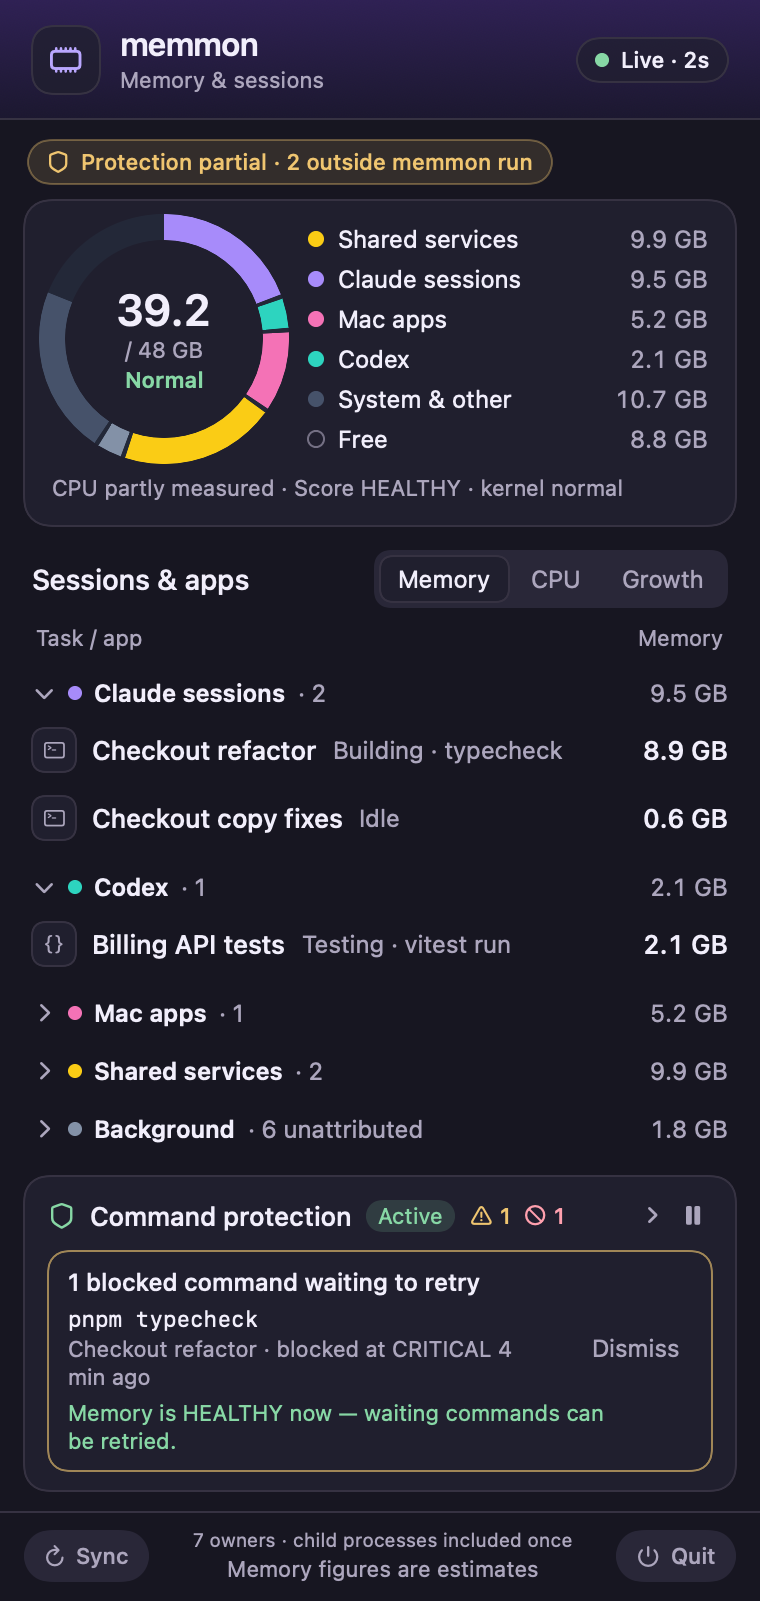
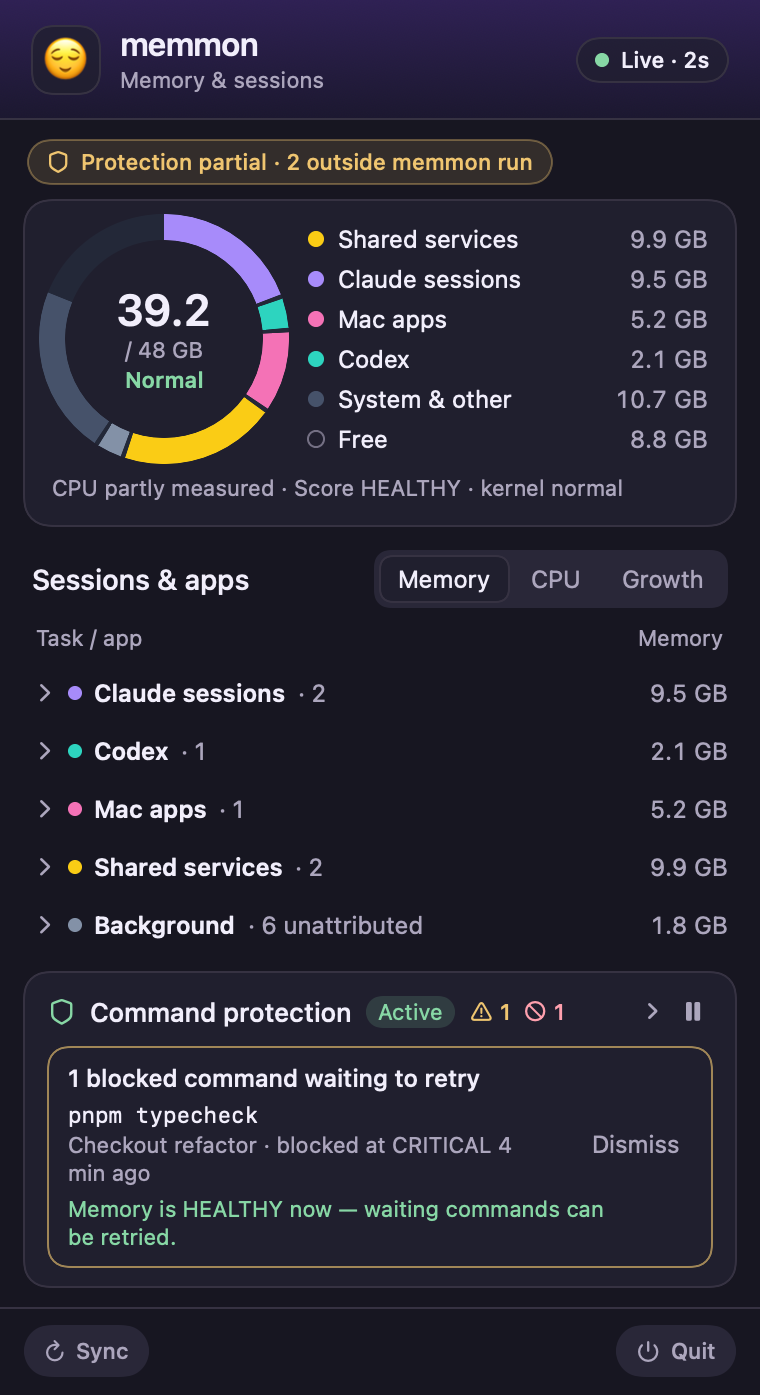
feat(menubar): a mood face in the header, collapsed sections, no footer note
The header tile shows how the machine feels: calm, watchful, strained,
overheating, unsure or asleep, from the sample's level and age, with a
gentle animation that stops under Reduce Motion. Every section now
starts collapsed, and the footer's owner-count note is gone; what it
tried to say is now the ring's tooltip.

diff --git a/MemmonBar.swift b/MemmonBar.swift
@@ -608,7 +608,9 @@ enum OwnerSection: String, CaseIterable, Identifiable {
     }
 
     /// Open until the user closes it: the sections that hold agent work.
-    var openByDefault: Bool { self == .claude || self == .codex }
+    /// Every section starts collapsed: the headers are the overview, and a
+    /// section opens on a click or for the row the user is acting on.
+    var openByDefault: Bool { false }
 
     /// At most this many rows show before "Show N more".
     static let cap = 6
@@ -2978,6 +2980,78 @@ struct ChromeHeightKey: PreferenceKey {
 func ringSweeps(reduceMotion: Bool, animate: Bool) -> Bool { animate && !reduceMotion }
 func dotPulses(reduceMotion: Bool) -> Bool { !reduceMotion }
 
+/// The header's face: how the machine feels, from the sample on screen. A
+/// stale or missing sample never looks calm.
+enum Mood: String {
+    case calm, watch, strained, critical, unsure, asleep
+
+    static func of(_ s: OwnersSnap?) -> Mood {
+        guard let s, s.age != nil else { return .unsure }
+        if s.stale { return .asleep }
+        switch s.system.scoreLevel?.uppercased() {
+        case "HEALTHY": return .calm
+        case "WATCH": return .watch
+        case "DANGER": return .strained
+        case "CRITICAL": return .critical
+        default: return .unsure
+        }
+    }
+
+    var face: String {
+        switch self {
+        case .calm: return "😌"
+        case .watch: return "😐"
+        case .strained: return "😰"
+        case .critical: return "🥵"
+        case .unsure: return "🤔"
+        case .asleep: return "😴"
+        }
+    }
+
+    var spoken: String {
+        switch self {
+        case .calm: return "calm, memory pressure is normal"
+        case .watch: return "watchful, memory pressure is rising"
+        case .strained: return "strained, memory pressure is high"
+        case .critical: return "overheating, memory pressure is critical"
+        case .unsure: return "unsure, memory pressure is unknown"
+        case .asleep: return "asleep, the sample is stale"
+        }
+    }
+
+    /// Breathing for calm, a faster breath when watchful, a wobble when
+    /// strained and a shake when critical.
+    var motion: (scale: CGFloat, angle: Double, period: Double) {
+        switch self {
+        case .calm: return (1.06, 0, 2.4)
+        case .watch: return (1.08, 0, 1.3)
+        case .strained: return (1.0, 6, 0.35)
+        case .critical: return (1.1, 10, 0.16)
+        case .unsure: return (1.0, 8, 1.6)
+        case .asleep: return (0.95, 0, 3.0)
+        }
+    }
+}
+
+struct MoodFace: View {
+    var mood: Mood
+    @Environment(\.accessibilityReduceMotion) private var reduceMotion
+    @State private var phase = false
+
+    var body: some View {
+        let m = mood.motion
+        Text(mood.face)
+            .font(.system(size: 19))
+            .scaleEffect(phase ? m.scale : 1)
+            .rotationEffect(.degrees(phase ? m.angle : (m.angle == 0 ? 0 : -m.angle)))
+            .onAppear {
+                // Renders and Reduce Motion get the still face.
+                guard dotPulses(reduceMotion: reduceMotion) else { return }
+                withAnimation(.easeInOut(duration: m.period).repeatForever(autoreverses: true)) { phase = true }
+            }
+    }
+}
+
 /// What the header's status pill says about the sample on screen.
 struct StatusState: Equatable {
     enum Kind: String { case live, syncing, sampling, stale }
@@ -3239,12 +3313,15 @@ struct ContentView: View {
 
     private var header: some View {
         HStack(spacing: 10) {
-            Image(systemName: "memorychip")
-                .font(.system(size: 15, weight: .medium)).foregroundColor(P.accent)
+            let mood = Mood.of(model.snap)
+            MoodFace(mood: mood)
+                .id(mood)
                 .frame(width: 34, height: 34)
                 .background(RoundedRectangle(cornerRadius: 10).fill(P.panel.opacity(0.75)))
                 .overlay(RoundedRectangle(cornerRadius: 10).stroke(P.border, lineWidth: 1))
-                .accessibilityHidden(true)
+                .help(mood.spoken)
+                .accessibilityElement(children: .ignore)
+                .accessibilityLabel("memmon mood: \(mood.spoken)")
             VStack(alignment: .leading, spacing: 1) {
                 Text("memmon").font(ft(16, .semibold)).tracking(-0.3).foregroundColor(P.text)
                 Text("Memory & sessions").font(ft(11)).foregroundColor(P.muted)
@@ -3337,6 +3414,7 @@ struct ContentView: View {
             HStack(alignment: .center, spacing: 16) {
                 ZStack {
                     MemoryRing(segments: segments, used: used, ram: ram, animate: !flattened)
+                        .help("Memory in use. Each section adds up its processes' footprints, compressed pages included; every process counts once, under its owner.")
                     VStack(spacing: 0) {
                         Text(used.map { String(format: "%.1f", $0 / GB) } ?? "—")
                             .font(.system(size: 22, weight: .semibold)).foregroundColor(P.text)
@@ -3833,19 +3911,9 @@ struct ContentView: View {
     }
 
     private var footer: some View {
-        let count = model.snap?.rows.count
-        return HStack(spacing: 8) {
+        HStack(spacing: 8) {
             FooterButton(icon: "arrow.clockwise", label: "Sync") { model.refresh() }
             Spacer(minLength: 4)
-            VStack(spacing: 1) {
-                if let count {
-                    Text("\(plural(count, "owner")) · child processes included once")
-                }
-                Text("Memory figures are estimates")
-            }
-            .font(ft(11)).foregroundColor(P.muted)
-            .multilineTextAlignment(.center)
-            .lineLimit(1).minimumScaleFactor(0.85)
             Spacer(minLength: 4)
             FooterButton(icon: "power", label: "Quit", action: onQuit)
         }
@@ -4003,7 +4071,9 @@ func renderOptions(_ view: [String: Any], fixtureDir: String) -> RenderOptions {
     o.openGate = ARGS.contains("--open-gate") || (view["open_gate"] as? Bool ?? false)
     o.dark = ARGS.contains("--dark")
     o.popoverClosed = view["popover_closed"] as? Bool ?? false
-    o.sections = view["sections"] as? [String] ?? []
+    // `--sections a,b` opens sections on top of the fixture's own view.
+    o.sections = (view["sections"] as? [String] ?? [])
+        + (argValue("--sections")?.split(separator: ",").map(String.init) ?? [])
     o.showAll = view["show_all"] as? [String] ?? []
     return o
 }

diff --git a/test_ui.py b/test_ui.py
@@ -80,6 +80,10 @@ def a11y_path(path, *flags):
     return rows
 
 
+# Sections start collapsed; tests that read rows open the agent sections.
+AGENTS = ("--sections", "claude,codex")
+
+
 def labels(rows):
     return [r["label"] for r in rows]
 
@@ -490,7 +494,7 @@ class AccessibilityTests(unittest.TestCase):
     """Walks the accessibility tree SwiftUI builds for each fixture."""
 
     def test_overview_labels_rows_chips_meter_and_status_lines(self):
-        rows = a11y("overview.json")
+        rows = a11y("overview.json", *AGENTS)
         found = labels(rows)
         self.assertIn("Sampled 2s ago by the live reader", found)
         self.assertIn("Protection partial · 2 heavy processes not started through memmon run", found)
@@ -512,7 +516,7 @@ class AccessibilityTests(unittest.TestCase):
         self.assertIn("Pause command protection", found)
 
     def test_unavailable_values_are_spoken_as_unavailable_never_zero(self):
-        found = labels(a11y("unavailable.json"))
+        found = labels(a11y("unavailable.json", *AGENTS))
         row = next(l for l in found if l.startswith("Checkout refactor,"))
         # Nothing measured is one state, not a memory reason plus a CPU one.
         self.assertIn("memory and CPU not available, not measured", row)
@@ -521,7 +525,7 @@ class AccessibilityTests(unittest.TestCase):
         self.assertIn("Sample time unknown", found)
         ring = next(l for l in found if l.startswith("Memory in use"))
         self.assertEqual(ring, "Memory in use not available, pressure unknown")
-        self.assertIn("Memory in use not available", " ".join(r["value"] for r in a11y("unavailable.json")))
+        self.assertIn("Memory in use not available", " ".join(r["value"] for r in a11y("unavailable.json", *AGENTS)))
 
     def test_session_detail_labels_child_jobs_and_kept_marker(self):
         found = labels(a11y("session-detail.json"))
@@ -714,7 +718,7 @@ class AccessibilityTests(unittest.TestCase):
         self.assertLessEqual(r["force_ttl"], memmon_owners.TOKEN_TTL_S)
 
     def test_rows_stay_one_line_and_the_label_keeps_everything(self):
-        rows = a11y("long-activity.json")
+        rows = a11y("long-activity.json", *AGENTS)
         short = next(r for r in rows if r["label"].startswith("Checkout refactor,"))
         long = next(r for r in rows if r["label"].startswith("Long activity,"))
         self.assertIn("very long label " * 6, long["label"])
@@ -761,17 +765,17 @@ class AccessibilityTests(unittest.TestCase):
         self.assertIn("5 of 5 processes exited", spoken)
 
     def test_contract_shapes_conversation_job_codex_frontend_and_unattributed(self):
-        detail = labels(a11y("session-detail.json"))
+        detail = labels(a11y("session-detail.json", *AGENTS))
         self.assertIn("Conversation, 1.2 GB · stays open when you stop a build", detail)
         self.assertFalse(any(l.startswith("Stop job: Conversation") for l in detail))
-        shared = labels(a11y("shared-detail.json"))
+        shared = labels(a11y("shared-detail.json", *AGENTS))
         # The generator's own title for a Codex frontend.
         title = "Codex thread · runs in Codex daemon"
         self.assertIn(f'owner.title = "{title}"', (ROOT / "memmon_owners.py").read_text())
         pointer = next(l for l in shared if l.startswith(title + ","))
         self.assertIn("Codex thread · 1 process", pointer)
         self.assertIn("ownership confidence: shared", pointer)
-        growth = labels(a11y("growth-sort.json"))
+        growth = labels(a11y("growth-sort.json", *AGENTS))
         unattributed = next(l for l in growth if l.startswith("Unattributed,"))
         self.assertIn("growth not available, not enough history, 1.8 GB", unattributed)
 
@@ -865,9 +869,9 @@ class SectionTests(unittest.TestCase):
         self.assertFalse(self.small(footprint_bytes=100 * 1024 ** 2))         # not under 100 MiB
         self.assertFalse(self.small(footprint_bytes=None))                    # unknown is never small
 
-    def test_only_agent_sections_start_open(self):
+    def test_every_section_starts_collapsed(self):
         sec = self.by_section(self.probe())
-        self.assertEqual({k for k, v in sec.items() if v["open"]}, {"claude", "codex"})
+        self.assertEqual({k for k, v in sec.items() if v["open"]}, set())
 
     def test_an_open_section_shows_six_rows_then_show_more(self):
         sec = self.by_section(self.probe("sections-open.json"))
@@ -925,7 +929,7 @@ class SectionTests(unittest.TestCase):
         self.assertNotIn("0.0 GB", row)
 
     def test_headers_and_rows_say_everything_the_old_rows_did(self):
-        found = labels(a11y("sections-open.json"))
+        found = labels(a11y("sections-open.json", *AGENTS))
         self.assertIn("Mac apps, 8 owners, 6.4 GB, expanded", found)
         self.assertIn("Browsers, 2 owners, 5.9 GB, collapsed", found)
         self.assertIn("Background, 9 small owners and 6 unattributed processes, 2.1 GB, expanded", found)
@@ -1084,6 +1088,21 @@ class HeaderAndRingTests(unittest.TestCase):
         self.assertEqual(len(events), 2)
         self.assertTrue(events[0].startswith("Stopped, command did not run: pnpm typecheck"))
         self.assertTrue(any(s.startswith("Retained activity since") for s in spoken))
+
+    def test_header_face_follows_pressure_and_staleness(self):
+        found = labels(a11y("overview.json"))
+        self.assertIn("memmon mood: calm, memory pressure is normal", found)
+        self.assertIn("memmon mood: asleep, the sample is stale", labels(a11y("stale-paused.json")))
+        self.assertIn("memmon mood: unsure, memory pressure is unknown", labels(a11y("unavailable.json")))
+        danger = labels(a11y("under-pressure.json")) if (FIXTURES / "under-pressure.json").exists() else None
+        if danger is not None:
+            self.assertTrue(any(l.startswith("memmon mood: strained") or l.startswith("memmon mood: overheating")
+                                for l in danger), danger[:5])
+
+    def test_footer_says_nothing_it_cannot_explain(self):
+        spoken = " ".join(r["label"] + " " + r["value"] for r in a11y("overview.json"))
+        self.assertNotIn("child processes included once", spoken)
+        self.assertNotIn("Memory figures are estimates", spoken)
 
     def test_legend_rows_open_their_section(self):
         found = labels(a11y("overview.json"))
@@ -1367,7 +1386,7 @@ class GeneratorContractTests(unittest.TestCase):
         png = Path(self.out.name) / "generated.png"
         line = run_bin("--render", str(png), "--fixture", str(path), "--dark")
         self.assertIn("rendered", line)
-        rows = a11y_path(path)
+        rows = a11y_path(path, *AGENTS)
         found = labels(rows)
         row = next(l for l in found if l.startswith(session["title"] + ","))
         self.assertIn("Building · typecheck", row)
